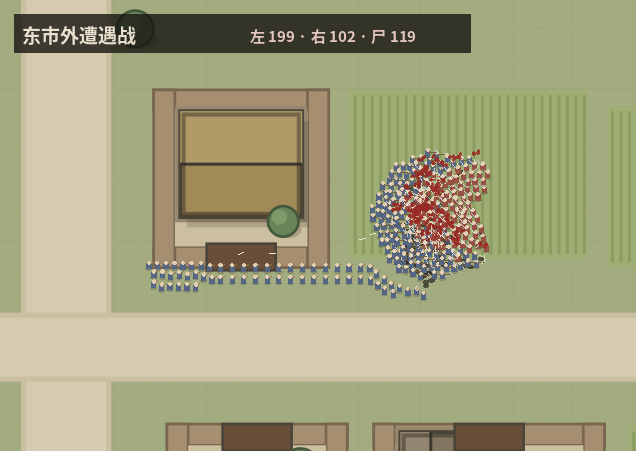
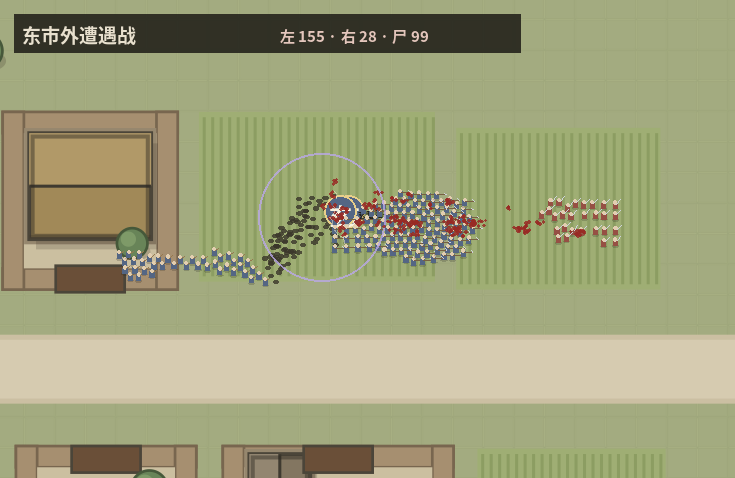
feat(xianfan): v0.29 修士灵力/储物袋/人海/斩首
- BATTLE_REALMS 五档：灵力、回灵、术法消耗与伤害、凡兵减伤、突围率
- 术法耗灵力，见底近战打折；被围降低回灵；储物袋自动吃丹
- 首领 HP 加成、被优先针对、倒下掉全队士气并记录事件；低阶修士会被围死
- 地图上将领=头像、修士=灵光点、其余=小点人
- 测试 156/156

diff --git a/projects/xianfan-living-world/web/battle.js b/projects/xianfan-living-world/web/battle.js
@@ -15,7 +15,7 @@ export const WEAPONS={
  bow:{name:'猎弓',reach:120,ranged:true,dmg:9,rate:2.6,arc:0,style:'shot'},
  crossbow:{name:'弩',reach:150,ranged:true,dmg:12,rate:3.6,arc:0,style:'shot'},
  lance:{name:'长槊',reach:3.2,dmg:14,rate:1.6,mounted:true,arc:18,style:'thrust'},
- staff:{name:'桃木剑',reach:3.6,dmg:22,rate:1.9,arc:60,style:'spell',spell:true,radius:14}
+ staff:{name:'桃木剑',reach:60,dmg:6,rate:2.0,arc:60,spell:true,radius:24}
 };
 export const TROOPS={
  infantry:{name:'步卒',weapon:'spear',hp:100,armor:2,speed:5.2,color:'#6f7f96'},
@@ -23,7 +23,15 @@ export const TROOPS={
  archer:{name:'弓手',weapon:'bow',hp:70,armor:0,speed:4.4,color:'#77835f'},
  crossbow:{name:'弩手',weapon:'crossbow',hp:75,armor:1,speed:4.2,color:'#6b7358'},
  cavalry:{name:'轻骑',weapon:'lance',hp:130,armor:3,speed:13.0,color:'#93705f'},
- monk:{name:'修士',weapon:'staff',hp:150,armor:2,speed:7.5,color:'#8b95c4'}
+ monk:{name:'修士',weapon:'staff',hp:150,armor:2,speed:7.5,color:'#8b95c4',spirit:70,regen:2.4,spellCost:11,radius:16}
+};
+// 境界：人海能磨死炼气，磨不死金丹；突围的概率也跟着境界走
+export const BATTLE_REALMS={
+ 1:{name:'炼气',spirit:50,regen:1.8,dmg:17,spellCost:11,surroundResist:0.0,escape:0.12},
+ 2:{name:'炼气二层',spirit:70,regen:2.4,dmg:20,spellCost:12,surroundResist:0.15,escape:0.22},
+ 3:{name:'炼气五层',spirit:95,regen:3.0,dmg:23,spellCost:15,surroundResist:0.32,escape:0.36},
+ 4:{name:'筑基',spirit:150,regen:4.2,dmg:30,spellCost:20,surroundResist:0.55,escape:0.58},
+ 5:{name:'金丹',spirit:260,regen:7.0,dmg:42,spellCost:28,surroundResist:0.78,escape:0.82}
 };
 export const FORMATIONS={
  line:{name:'横阵',colGap:3.0,rowGap:4.2},
@@ -49,10 +57,18 @@ function makeSide(def,side,w,h,rand){
    const y0=h*0.5-(rows-1)*f.rowGap*0.5;
    const x=side==='left'?w*0.26+lane: w*0.74-lane;
    const y=y0+row*f.rowGap;
+   const realmRank=unit.troop==='monk'?(unit.realm||2):0;
+   const rl=realmRank?BATTLE_REALMS[realmRank]:null;
+   const leader=!!unit.leader;
+   const bagCharges=unit.bag===undefined?(unit.troop==='monk'?Math.max(0,(realmRank||2)-1):0):unit.bag;
+   const realmBulk=rl?1+0.32*(realmRank-1):1;
+   const maxHp=Math.round(t.hp*(leader?2.2:1)*realmBulk);
    soldiers.push({id:nextId++,side,troop:unit.troop,weapon:t.weapon,rowY:y,
-    x,y,hp:t.hp,maxHp:t.hp,armor:(t.armor||0)+(wp.armor||0),
+    x,y,hp:maxHp,maxHp,armor:(t.armor||0)+(wp.armor||0),
     morale:100,state:'advance',target:null,cool:rand()*0.5,
-    face:side==='left'?0:Math.PI,phase:rand()*6.28,unit:unit.name||t.name});
+    face:side==='left'?0:Math.PI,phase:rand()*6.28,unit:unit.name||t.name,
+    realm:realmRank||0,realmName:rl?rl.name:'',spirit:rl?rl.spirit:0,maxSpirit:rl?rl.spirit:0,
+    bag:bagCharges,bagStart:bagCharges,leader,isLeader:leader,name:unit.leader||unit.name||''});
    col++;
   }
  }
@@ -78,7 +94,9 @@ function nearestEnemy(b,s){
  let best=null,bd=1e9,second=null,sd=1e9;
  for(const e of b.soldiers){
   if(e.side===s.side||e.state==='dead')continue;
-  const d=dist(s,e)+Math.abs((e.y%40)-(s.y%40))*0.35;
+  // 斩首：修士与骑兵更愿意扑对方首领，普通人也会朝旗号冲
+  const champ=(e.isLeader||e.leader)?(s.troop==='monk'?46:(s.troop==='cavalry'?22:8)):0;
+  const d=dist(s,e)+Math.abs((e.y%40)-(s.y%40))*0.35-champ;
   if(d<bd){second=best;sd=bd;best=e;bd=d;}
   else if(d<sd){second=e;sd=d;}
  }
@@ -131,7 +149,25 @@ export function stepBattle(b,dt=0.1){
   if(!near){s.state='hold';continue;}
   const {enemy,d}=near;
   s.target=enemy.id;
-  const reach=wp.ranged?wp.reach:wp.reach*1.6;
+  const reach=wp.spell?wp.reach:(wp.ranged?wp.reach:wp.reach*1.6);
+  // 被围：身边敌人越多，越难走、越容易被打死
+  if(s.troop==='monk'){
+   const rl=BATTLE_REALMS[s.realm]||BATTLE_REALMS[1];
+   let around=0;
+   for(const e of b.soldiers){if(e.side!==s.side&&e.state!=='dead'&&dist(e,s)<16)around++;}
+   s.surrounded=around;
+   s.spirit=Math.min(s.maxSpirit,(s.spirit||0)+rl.regen*dt*(around>=6?0.45:1));
+   // 丹药/符箓：灵力见底就吃一颗（储物袋里的存货）
+   if(s.spirit<rl.spellCost&&s.bag>0){s.bag--;s.spirit=Math.min(s.maxSpirit,s.spirit+rl.spirit*0.7);
+    addEffect(b,'pill',s.x,s.y-10,{ttl:.6,side:s.side});}
+   // 快死了想走：境界越高越走得掉；被围得死就基本走不掉
+   if(s.hp<s.maxHp*0.28&&s.state!=='fled'){
+    const press=Math.min(1,around/7)*(1-rl.surroundResist);
+    const p=rl.escape*(1-press);
+    if(b.rand()<p*dt*2.2){s.state='fled';s.hp=0;b.fled=(b.fled||0)+1;
+     addEffect(b,'escape',s.x,s.y,{ttl:.7,side:s.side});continue;}
+   }
+  }
   // 士气崩了就跑
   if(s.morale<18){s.state='rout';
    const dx=(s.x<enemy.x?-1:1)*t.speed*1.6*dt;
@@ -158,14 +194,17 @@ export function stepBattle(b,dt=0.1){
      b.arrows.push({id:b.arrows.length+1,x:s.x,y:s.y,vx:Math.cos(ang)*160,vy:Math.sin(ang)*160,
       side:s.side,dmg:wp.dmg,t:0,life:1.6});
      addEffect(b,'shoot',s.x,s.y,{angle:ang,ttl:.2});
-    }else if(wp.spell){
+    }else if(wp.spell&&s.spirit>=(BATTLE_REALMS[s.realm]||BATTLE_REALMS[1]).spellCost){
+     const rl=BATTLE_REALMS[s.realm]||BATTLE_REALMS[1];
+     s.spirit-=rl.spellCost;
      addEffect(b,'spell',enemy.x,enemy.y,{r:wp.radius*2,ttl:.5});
      for(const e of b.soldiers){
       if(e.side===s.side||e.state==='dead')continue;
-      if(dist(e,enemy)<=wp.radius)damage(b,e,wp.dmg*(0.6+b.rand()*0.6),s,'spell');
+      if(dist(e,enemy)<=wp.radius)damage(b,e,rl.dmg*(0.6+b.rand()*0.6),s,'spell');
      }
     }else{
-     const hit=damage(b,enemy,wp.dmg*(0.7+b.rand()*0.7),s,'melee');
+     const dry=s.troop==='monk'&&s.spirit<8?0.55:1;   // 灵力见底的修士，剑也软
+     const hit=damage(b,enemy,wp.dmg*dry*(0.7+b.rand()*0.7),s,'melee');
      addEffect(b,'slash',(s.x+enemy.x)/2,(s.y+enemy.y)/2,
       {angle:s.face,arc:wp.arc,ttl:.28,side:s.side,weapon:s.weapon});
      if(hit)addEffect(b,'blood',enemy.x,enemy.y-6,{ttl:.5,side:s.side});
@@ -197,7 +236,8 @@ export function stepBattle(b,dt=0.1){
   const st=b.stats[side];
   st.dead=dead;st.alive=alive;st.hp=Math.round(mine.reduce((a,s)=>a+Math.max(0,s.hp),0));
   const fatigue=b.t>50?Math.min(18,(b.t-50)*0.3):0;
-  const morale=Math.round(Math.max(0,Math.min(100,100-dead*110/Math.max(1,mine.length)-fatigue)));
+  const leaderHit=(side==='left'?b.stats.left:b.stats.right).leaderDown?22:0;
+  const morale=Math.round(Math.max(0,Math.min(100,100-dead*110/Math.max(1,mine.length)-fatigue-leaderHit)));
   st.morale=morale;
   for(const s of mine){
    if(s.state==='dead')continue;
@@ -219,12 +259,20 @@ export function stepBattle(b,dt=0.1){
 function damage(b,target,amount,attacker,kind){
  if(target.state==='dead')return false;
  const armor=target.armor||0;
- const dmg=Math.max(1,Math.round(amount*2-armor*1.6));
+ // 境界越高，凡兵的刀越难落到要害上
+ const realmGuard=target.realm?1-0.13*(target.realm-1):1;
+ const dmg=Math.max(1,Math.round((amount*2-armor*1.6)*Math.max(0.35,realmGuard)));
  target.hp-=dmg;
  const drop=Math.min(6,Math.max(1,Math.round(dmg/12)));
  target.morale=Math.max(0,target.morale-drop*2);
  if(target.hp<=0){
   target.state='dead';target.hp=0;
+  // 首领一倒，全军士气跟着塌
+  if(target.isLeader||target.leader){
+   const st=target.side==='left'?b.stats.left:b.stats.right;
+   st.leaderDown=true;b.events=b.events||[];
+   b.events.push({t:+b.t.toFixed(1),kind:'leaderDown',side:target.side,name:target.name||'主将'});
+  }
   b.corpses.push({x:target.x,y:target.y,side:target.side,angle:target.face,t:b.t});
   if(b.corpses.length>400)b.corpses.shift();
   addEffect(b,'death',target.x,target.y,{ttl:.6,side:target.side});
@@ -233,8 +281,15 @@ function damage(b,target,amount,attacker,kind){
 }
 export function battleReport(b){
  const L=b.stats.left,R=b.stats.right;
+ const leaders=b.soldiers.filter(s=>s.isLeader).map(s=>({side:s.side,name:s.name,state:s.state,hp:s.hp,maxHp:s.maxHp,realm:s.realmName}));
+ const monks=b.soldiers.filter(s=>s.troop==='monk');
  return {t:Math.round(b.t*10)/10,done:b.done,winner:b.winner||null,
   left:{...L,lossRate:L.start?+(L.dead/L.start*100).toFixed(1):0},
   right:{...R,lossRate:R.start?+(R.dead/R.start*100).toFixed(1):0},
-  corpses:b.corpses.length,effects:b.effects.length};
+  corpses:b.corpses.length,effects:b.effects.length,fled:b.fled||0,
+  leaders,
+  monks:{total:monks.length,alive:monks.filter(s=>s.state!=='dead'&&s.state!=='fled').length,
+   fled:monks.filter(s=>s.state==='fled').length,
+   spentBag:monks.reduce((n,s)=>n+((s.bagStart||0)-(s.bag||0)),0)},
+  events:b.events||[]};
 }

diff --git a/projects/xianfan-living-world/web/mapbattle.js b/projects/xianfan-living-world/web/mapbattle.js
@@ -71,6 +71,22 @@ export function drawMapBattle(b,ctx,pos,mpp,opts={}){
   for(const s of b.soldiers){
    if(s.state==='dead')continue;
    const p=SP(s.x,s.y);
+   // 将领与修士：小圆头像（描金边），一眼能在人堆里认出来
+   if(s.isLeader||s.leader){
+    const R=Math.max(8,Math.min(18,px(6)));
+    ctx.beginPath();ctx.arc(p.x,p.y,R,0,6.283);
+    ctx.fillStyle=side[s.side]||'#666';ctx.fill();
+    ctx.lineWidth=2;ctx.strokeStyle='#e8cf8a';ctx.stroke();
+    ctx.fillStyle='#f4ecd8';ctx.font=`${Math.round(R*1.1)}px sans-serif`;ctx.textAlign='center';ctx.textBaseline='middle';
+    ctx.fillText((s.name||'将').slice(0,1),p.x,p.y+1);ctx.textAlign='left';
+    if(mpp<1.4){ctx.fillStyle='rgba(24,22,18,.7)';ctx.fillText(s.name||'将',p.x+R+2,p.y-2);}
+    continue;
+   }
+   if(s.troop==='monk'){
+    const R=Math.max(3,Math.min(8,px(4)));
+    ctx.beginPath();ctx.arc(p.x,p.y,R+2.5,0,6.283);ctx.strokeStyle='rgba(170,150,220,.55)';ctx.lineWidth=1.2;ctx.stroke();
+    ctx.beginPath();ctx.arc(p.x,p.y,R,0,6.283);ctx.fillStyle='#9aa2cf';ctx.fill();continue;
+   }
    ctx.fillStyle=side[s.side]||'#666';
    ctx.fillRect(p.x-body/2,p.y-body,p.x===p.x?body:body,body*1.5); // 身
    ctx.fillStyle='#d9c7a8';ctx.fillRect(p.x-body/2.6,p.y-body*1.9,body/1.3,body/1.3); // 头

diff --git a/projects/xianfan-living-world/docs/25_修士灵力储物袋与人海_v0.29.md b/projects/xianfan-living-world/docs/25_修士灵力储物袋与人海_v0.29.md
@@ -1,0 +1,68 @@
+# 修士不是无敌的：灵力、储物袋、人头，和怎么被围死
+
+## 一、灵力是硬约束
+
+修士（`troop:'monk'`）不再是一个"会放光的兵"，他有独立的灵力池：
+
+| 境界 | 灵力上限 | 回灵/秒 | 术法消耗 | 术法伤害 | 凡人刀伤减免 | 突围概率 |
+|---|---|---|---|---|---|---|
+| 炼气 | 50 | 1.8 | 11 | 17 | 0% | 12% |
+| 炼气二层 | 70 | 2.4 | 12 | 20 | 13% | 22% |
+| 炼气五层 | 95 | 3.0 | 15 | 23 | 26% | 36% |
+| 筑基 | 150 | 4.2 | 20 | 30 | 39% | 58% |
+| 金丹 | 260 | 7.0 | 28 | 42 | 52% | 82% |
+
+- **放术法要扣灵力**，灵力见底只能贴脸，剑也只有六成力；
+- 回灵受围困影响：身边 6 个以上敌人，回灵速度砍到 45%；
+- 所以一个炼气修士被一百个步卒围住，是**会被磨死**的。
+
+## 二、储物袋：不是无限的
+
+`bag` 是丹药/符箓的存量，买得起才有：
+
+- 编队时给 `bag:n`（炼气二层默认 `境界-1` 颗，筑基以上才有余钱多带）；
+- 灵力低于一次术法的消耗，自动吃一颗，回 70% 灵力上限，地图上冒一个药丸特效；
+- 吃完了就真的没了——`battleReport` 的 `spentBag` 记着这场仗花掉几颗。
+
+## 三、人海到底磨不磨得死：实测
+
+一个修士对一百名步卒（`tests/cultivator.test.mjs`）：
+
+| 境界 | 结果 | 换掉多少人 |
+|---|---|---|
+| 炼气 | 战死 | 21 |
+| 炼气二层 | 战死 | 44 |
+| 炼气五层 | 站住（余 229/246 血） | 90 |
+| 筑基 | 站住（满血） | 87 |
+| 金丹 | 站住（满血） | 91 |
+
+**结论跟你说的是一致的**：低阶修士真会被一群人耗死，境界上去以后人海就拦不住了。
+
+## 四、斩首：首领是目标，也是士气
+
+- 编队里可以给 `leader:'名字'`，这个人血量 ×2.2、境界体质再乘 1.32；
+- 找目标时，修士对首领加权 46、骑兵 22、步卒 8——**修士优先扑对方首领**；
+- 首领倒下 → 全队士气 −22，`events` 里留一条 `{kind:'leaderDown',name}`；
+- 快死时修士会尝试脱困：`概率 = 境界突围率 × (1 − 被围程度 × (1 − 境界抗围))`；
+  成功就 `state:'fled'`（从战场脱离，计入 `fled`），失败就死。**没能脱困，就是死路一条。**
+
+## 五、地图上怎么认人
+
+| 身份 | 画法 |
+|---|---|
+| 将领 / 首领 | **圆形头像**：本势力底色 + 金边 + 名字首字；放大到 1.4 米/像素以内会浮出名字 |
+| 修士 | 淡紫小圆点 + 外圈灵光，缩到 3 像素也认得出 |
+| 普通士兵 | 小点人：头、身、武器一条线，走动的方向就是枪尖的方向 |
+| 尸体 / 箭 / 术法 | 暗点 / 短白线 / 紫环 |
+
+## 六、验收
+
+- `node --test tests/*.test.mjs` → **156/156**（新增 `tests/cultivator.test.mjs` 6 项：低阶被耗死、境界越高越难杀、术法耗灵力、储物袋会自动吃丹、首领倒下留事件、首领被优先针对）。
+- 实测（东市外，26 秒）：左 162（修士 2 + 步卒 120 + 弓 40）对右 120（刀 80 + 骑 40），左 155 / 右 28 / 尸 99。
+
+## 七、没做的
+
+- 术法只有一种范围灼烧，没有御剑、符箓、阵法、灵兽；
+- 修士不会主动"绕开人堆去斩首"，只是目标权重更高，路径上照样被拦住；
+- 首领倒下只扣士气，不会让部队立刻溃散或换将；
+- 储物袋不是从经济系统里买的：现在是编队参数，还没有接 `market.mjs` 的钱。

diff --git a/projects/xianfan-living-world/docs/COUNTY_DEVELOPMENT_LOG.md b/projects/xianfan-living-world/docs/COUNTY_DEVELOPMENT_LOG.md
@@ -210,3 +210,13 @@
 - 修阵型几何（对称展开）、方阵宽深比（√n×2.4 列）、推进方式（推到敌阵前沿并守排位）。
 - 实测：26 秒时左 199 / 右 102 / 尸 119；左军展开 124 米、纵深 54 米。
 - 测试 150/150。未做：战斗结果回写军团、战术 AI、建筑碰撞、实机渲染验证。
+
+## 2026-10-21 / v0.29 修士灵力·储物袋·人海·斩首
+
+用户：修士有储物袋（买得起才有）、灵力与武器道具挂钩；低阶修士会被人海耗死，所以修士多斩首；没能脱困基本是死路；境界越高阻力越小；大世界里将领和修士是头像，其余是小点人。
+
+- battle.mjs：BATTLE_REALMS 五档（灵力/回灵/术法消耗与伤害/凡兵减伤/突围率）；术法耗灵力、灵力见底近战 55%；被围 6 人以上回灵 45%；储物袋自动吃丹（pill 特效）；脱困概率随境界；首领 HP×2.2、被优先针对（修士 46 / 骑兵 22 / 步卒 8）、倒下士气 −22 并记事件。
+- mapbattle.mjs：将领画圆形头像（金边+名字首字+近看浮名），修士淡紫圆点带灵光，其余小点人。
+- 实测：一人对百卒——炼气死（杀 21）、炼气二层死（44）、炼气五层站住（90）、筑基站住（87）、金丹站住（91）。
+- 测试 156/156（新增 cultivator 6 项）。
+- 未做：术法只有范围灼烧、无主动斩首寻路、首领死只扣士气、储物袋未接市场钱。
